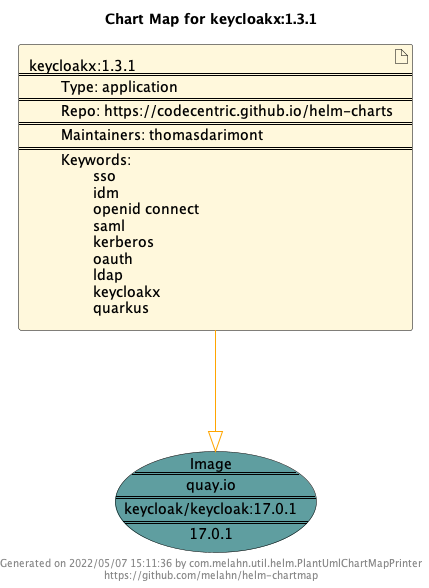
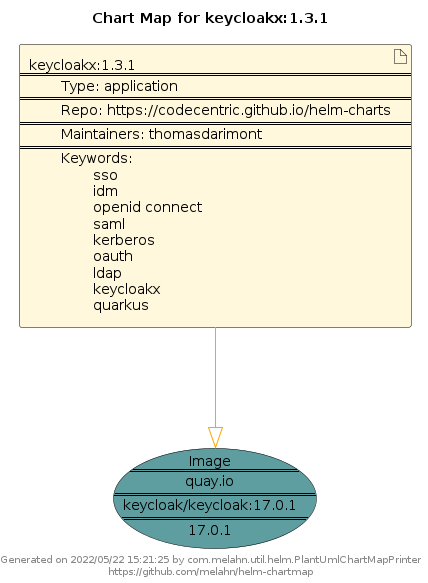
Update Codecentric Example Chart Maps

Changed region(s): [[0.0, 0.0, 0.972, 0.988], [0.8201, 0.9262, 0.972, 0.988]]

diff --git a/docs/codecentric.github.io/index.html b/docs/codecentric.github.io/index.html
@@ -1,5 +1,5 @@
 <!DOCTYPE HTML>
-<html>
+<html lang="en">
 <head>	<meta http-equiv="Content-Type" content="text/html; charset=UTF-8"/>
 	<link rel="stylesheet" href="./style.css">
 	<title>Helm Dependency Charts</title>
@@ -90,9 +90,5 @@
 		<li class="chartlink"><a href="./mailhog-5.0.5.puml">mailhog-5.0.5.puml</a></li>
 		<li class="chartlink"><a href="./mailhog-5.0.5.png">mailhog-5.0.5.png</a></li>
 	</ul>
-<hr><p>Charts successfully processed: 12</p>
-<p>Charts with errors: 0</p>
-<p>Total charts processed: 12</p>
-
-<hr>Generated on 2022/05/07 15:11:54 by com.melahn.util.helm.ChartMapGenerator <a href="https://github.com/melahn/helm-chartmap-generator">https://github.com/melahn/helm-chartmap-generator</a></body>
+<hr>Generated on 2022/05/22 15:21:44 by com.melahn.util.helm.ChartMapGenerator <a href="https://github.com/melahn/helm-chartmap-generator">https://github.com/melahn/helm-chartmap-generator</a></body>
 </html>
